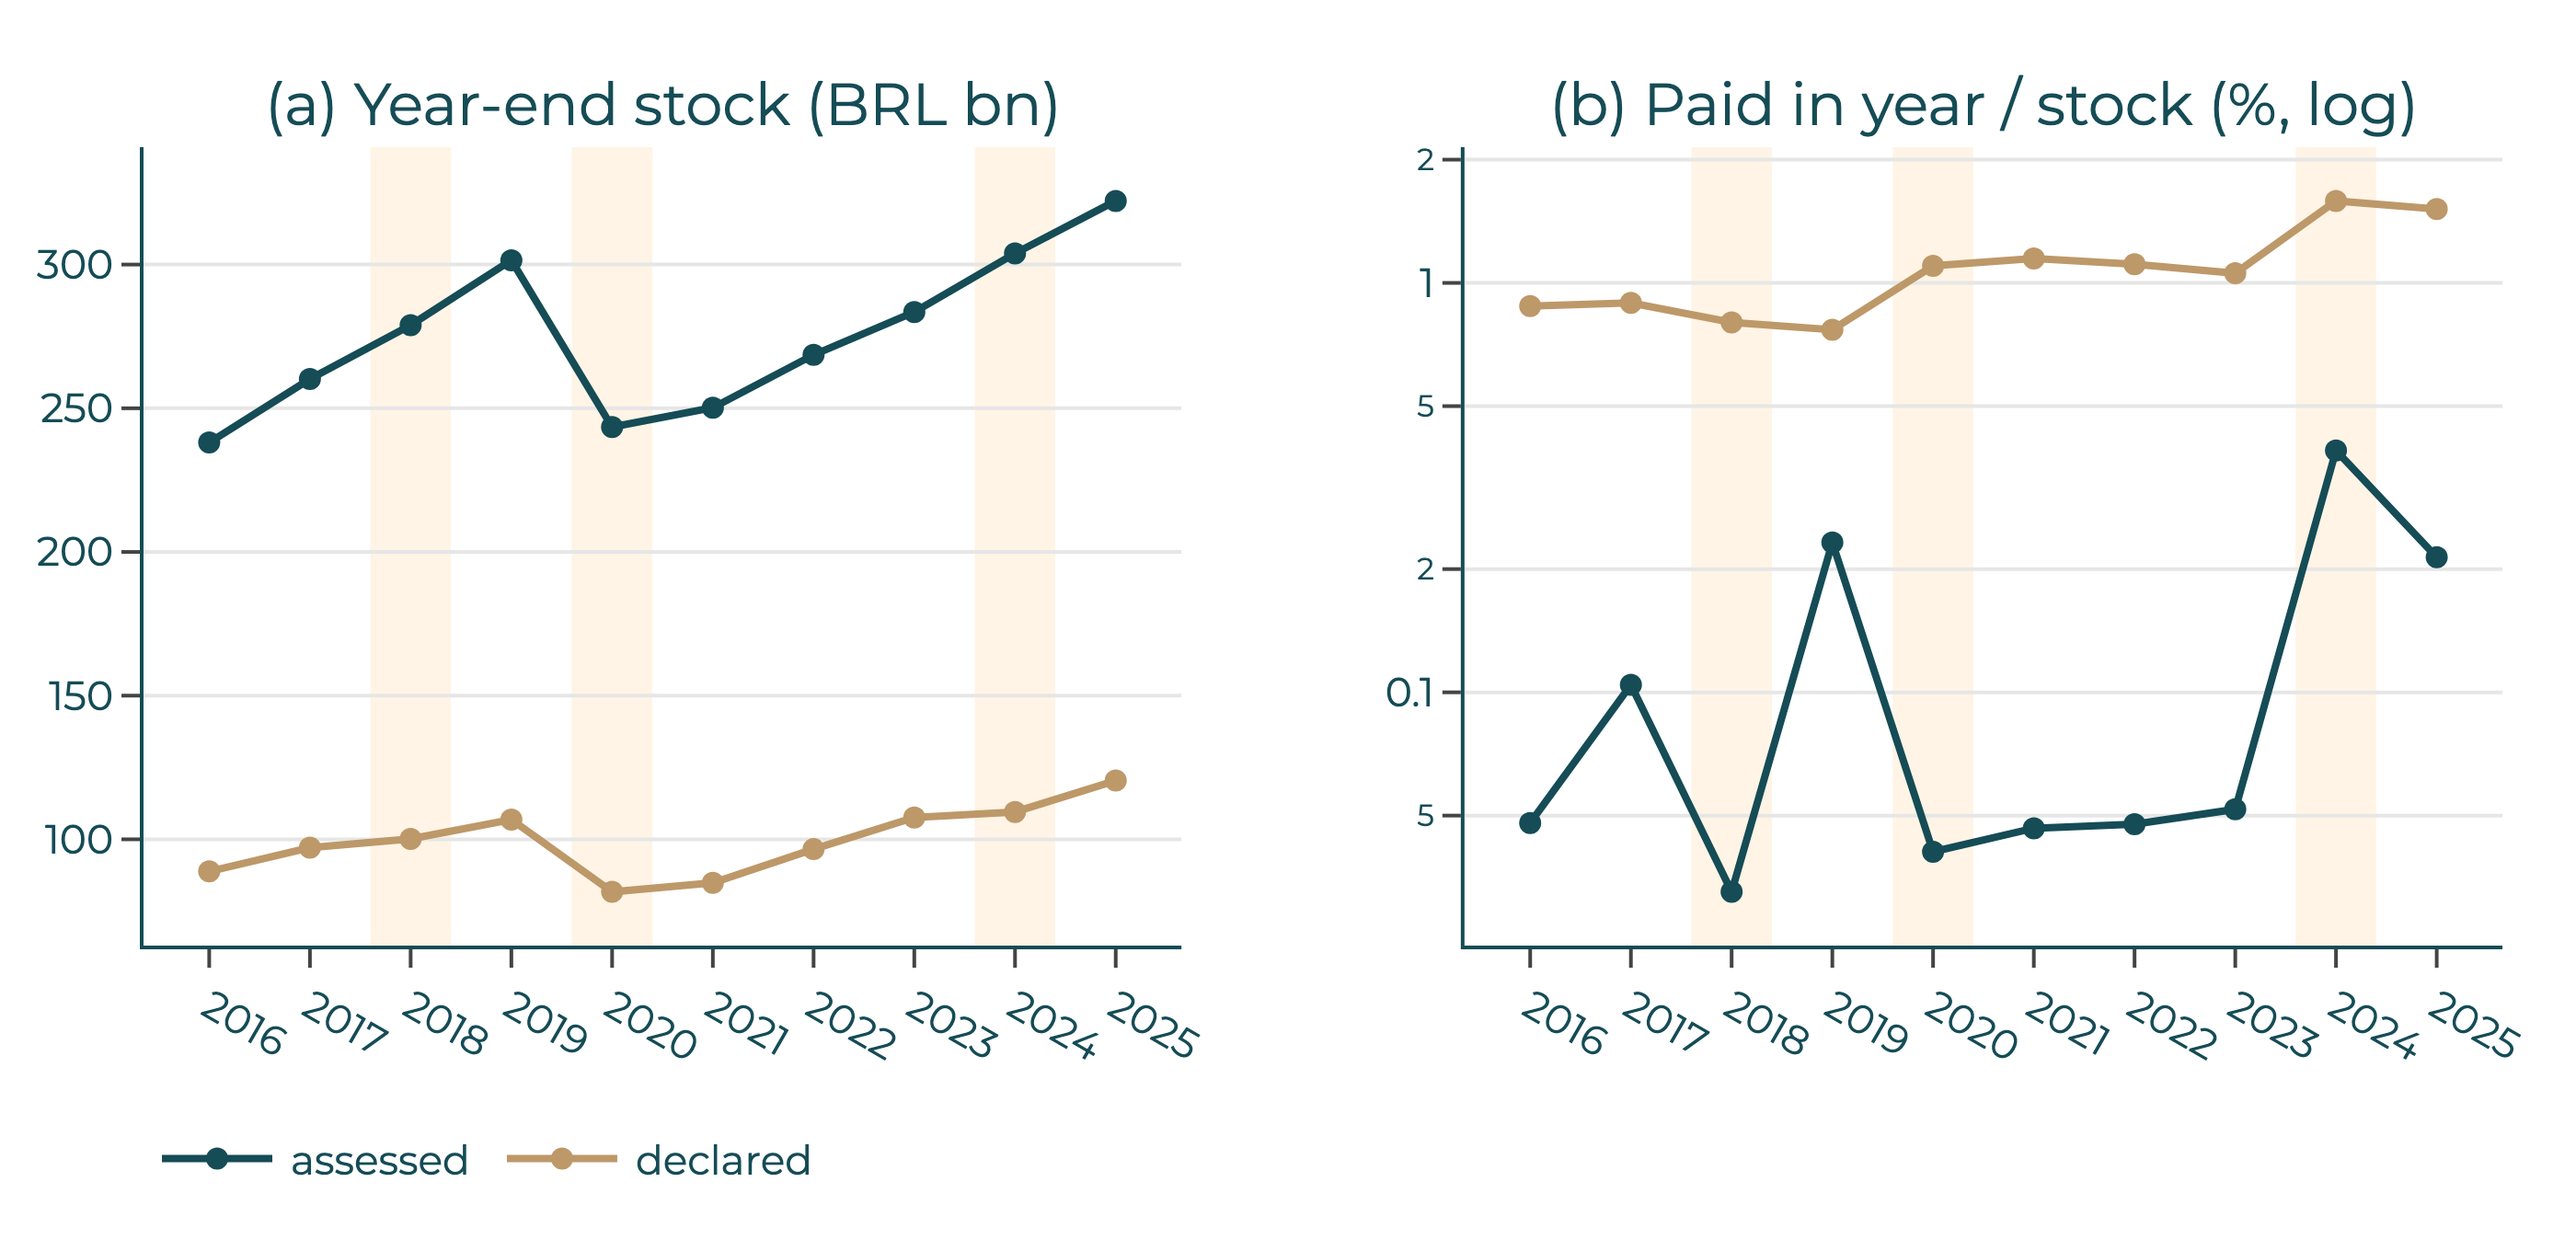
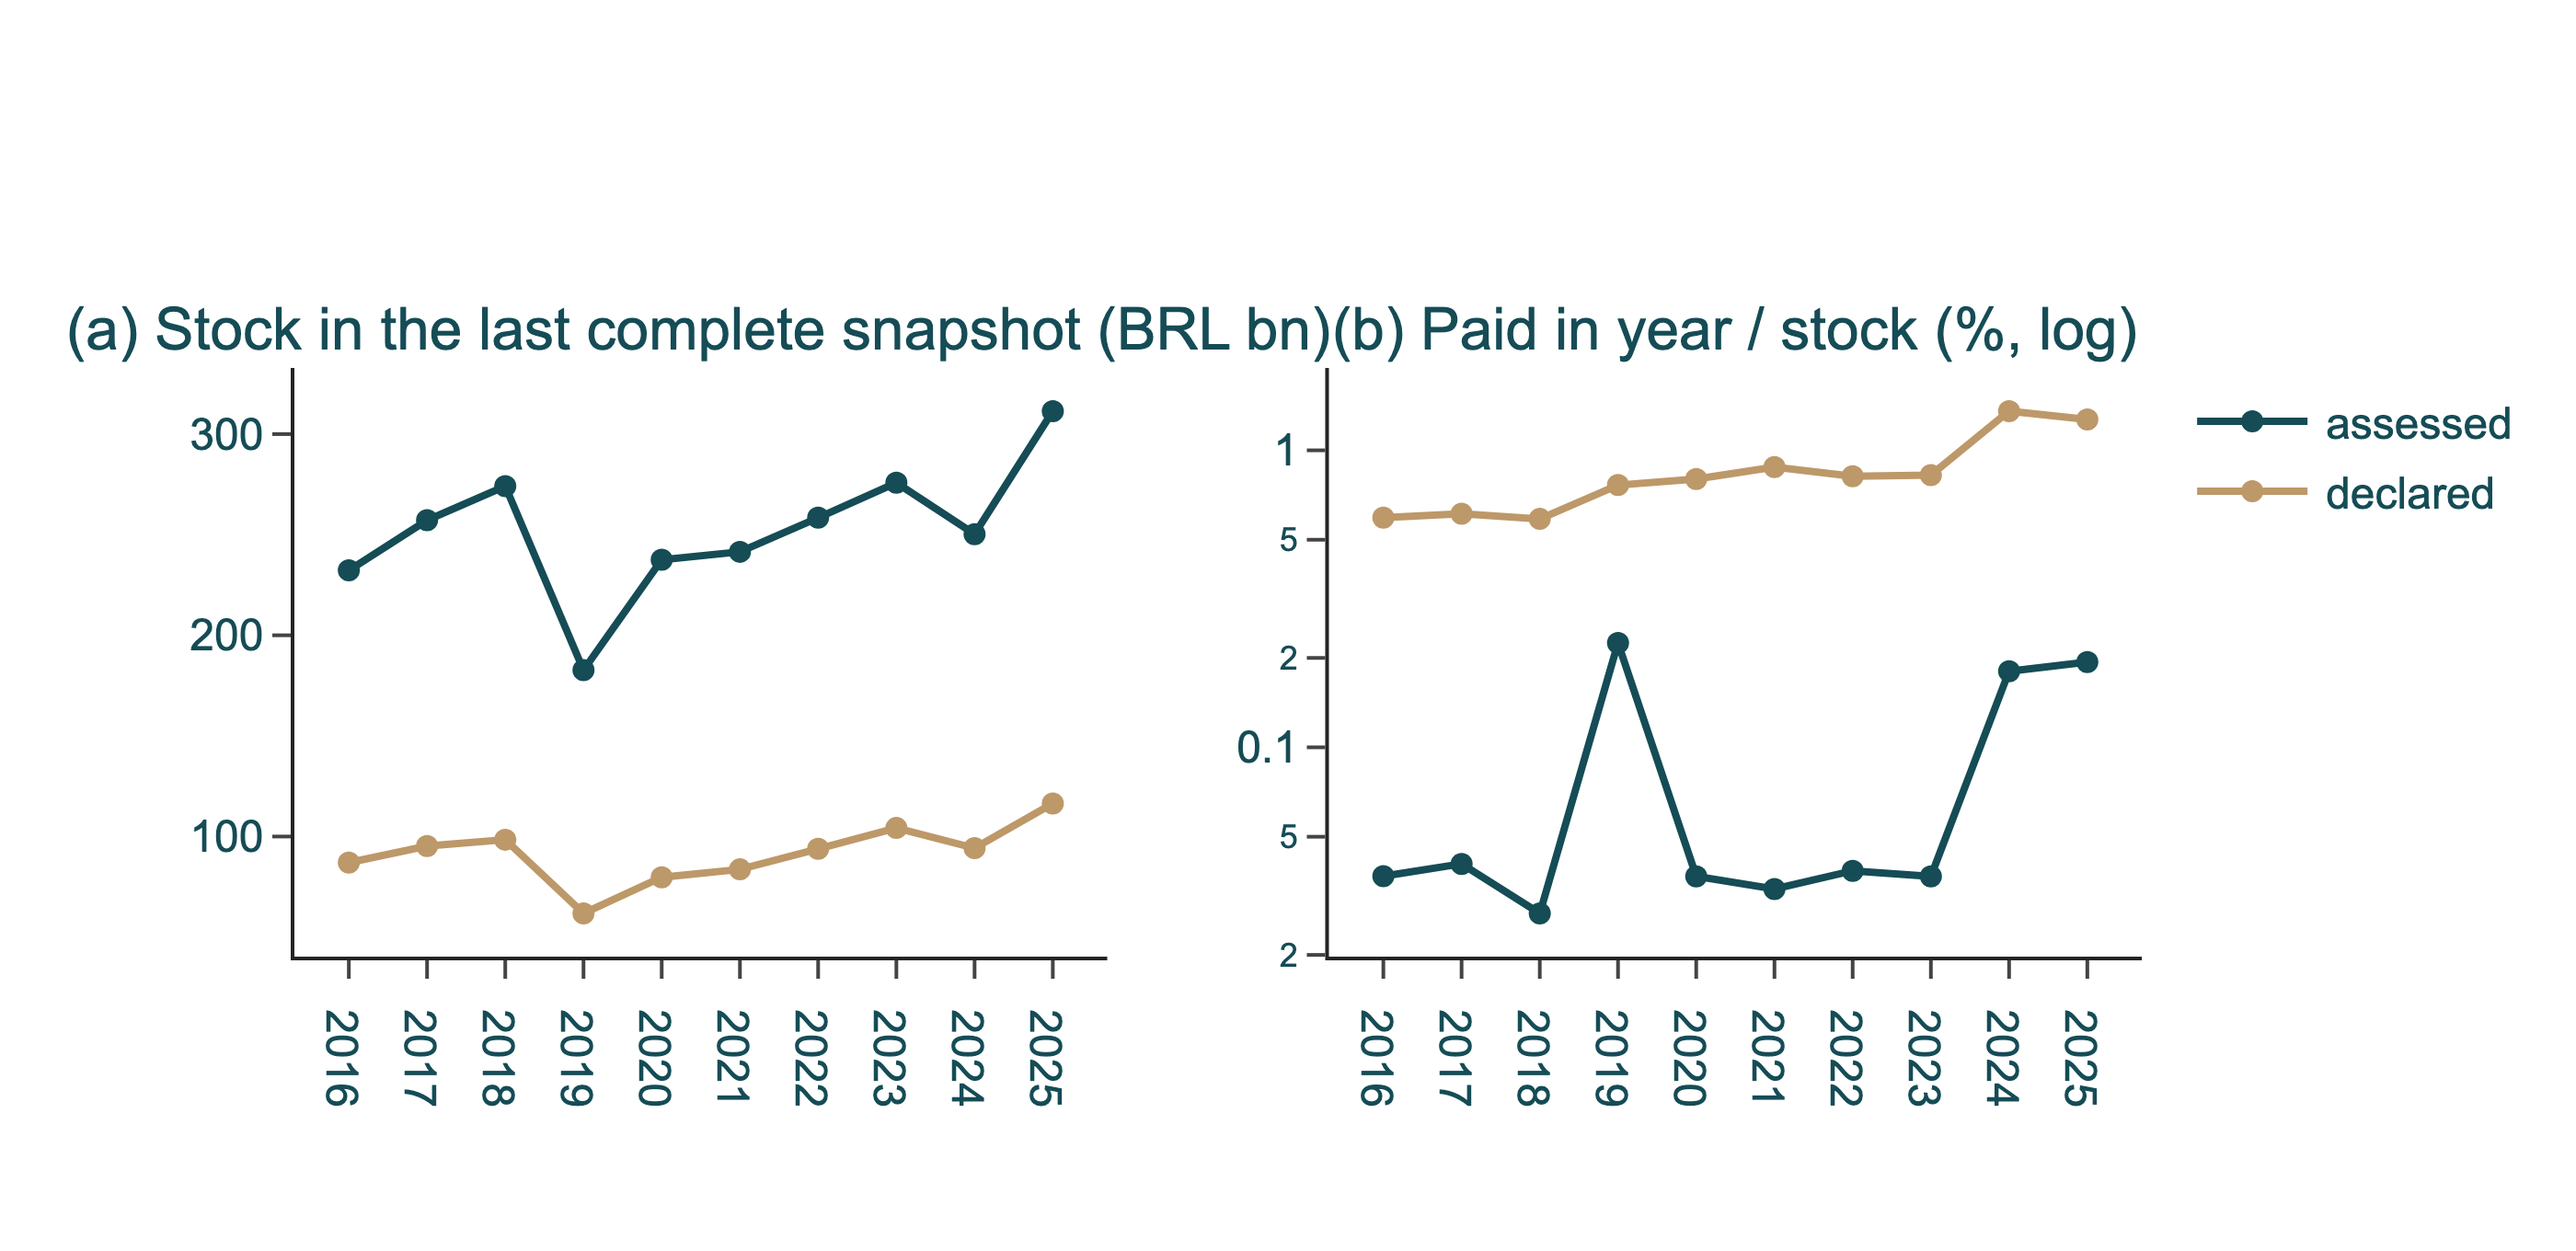
AVD: annual stock vs collection panel, deduplicated, last complete snapshot

diff --git a/projects/macro/manuscript/icms_declarado_autuado/tables/tab_annual_series_origin.tex b/projects/macro/manuscript/icms_declarado_autuado/tables/tab_annual_series_origin.tex
@@ -1,38 +1,38 @@
-% generated by the supplementary notebook; do not edit by hand
-% CDA x year panel, VAT (ICMS) debt of legal entities, 2016-2025, by origin; BRL billion
+% generated by the supplementary material; do not edit by hand
+% One row per debt identifier in the last complete monthly snapshot of the year.
 \begin{tabular}{lrrrrrr}
 \toprule
-year & origin & cdas & stock\_bn & paid\_bn & rate\_pct & pct\_declared\_in\_paid \\
+year & origin & cdas & stock_bn & paid_bn & rate_pct & pct_declared_in_paid \\
 \midrule
-2016 & assessed & 119,985 & 238.1 & 0.114 & 0.048 & 87.2 \\
-2017 & assessed & 121,176 & 260.2 & 0.271 & 0.104 & 76.2 \\
-2018 & assessed & 122,130 & 278.9 & 0.091 & 0.033 & 89.8 \\
-2019 & assessed & 124,498 & 301.5 & 0.701 & 0.232 & 54.0 \\
-2020 & assessed & 67,224 & 243.5 & 0.099 & 0.041 & 90.1 \\
-2021 & assessed & 64,007 & 250.2 & 0.117 & 0.047 & 89.3 \\
-2022 & assessed & 65,632 & 268.6 & 0.128 & 0.048 & 89.3 \\
-2023 & assessed & 65,522 & 283.5 & 0.147 & 0.052 & 88.6 \\
-2024 & assessed & 64,718 & 303.9 & 1.184 & 0.390 & 59.5 \\
-2025 & assessed & 63,973 & 322.2 & 0.689 & 0.214 & 72.6 \\
-2016 & declared & 1,455,676 & 88.8 & 0.780 & 0.878 & 87.2 \\
-2017 & declared & 1,596,331 & 97.1 & 0.868 & 0.894 & 76.2 \\
-2018 & declared & 1,714,469 & 100.1 & 0.802 & 0.801 & 89.8 \\
-2019 & declared & 2,054,926 & 106.9 & 0.821 & 0.769 & 54.0 \\
-2020 & declared & 1,736,451 & 81.7 & 0.899 & 1.101 & 90.1 \\
-2021 & declared & 1,841,700 & 84.8 & 0.973 & 1.147 & 89.3 \\
-2022 & declared & 2,200,941 & 96.6 & 1.073 & 1.111 & 89.3 \\
-2023 & declared & 2,416,921 & 107.6 & 1.136 & 1.056 & 88.6 \\
-2024 & declared & 2,311,426 & 109.5 & 1.737 & 1.586 & 59.5 \\
-2025 & declared & 2,585,489 & 120.4 & 1.824 & 1.514 & 72.6 \\
-2016 & other & 66 & 0.0 & 0.000 & 0.075 & 87.2 \\
-2017 & other & 59 & 0.0 & 0.000 & 0.042 & 76.2 \\
-2018 & other & 60 & 0.0 & 0.000 & 0.035 & 89.8 \\
-2019 & other & 154 & 0.0 & 0.000 & 0.116 & 54.0 \\
-2020 & other & 596 & 0.0 & 0.000 & 0.092 & 90.1 \\
-2021 & other & 1,078 & 0.0 & 0.000 & 0.610 & 89.3 \\
-2022 & other & 1,326 & 0.0 & 0.001 & 2.327 & 89.3 \\
-2023 & other & 1,575 & 0.1 & 0.001 & 1.750 & 88.6 \\
-2024 & other & 1,766 & 0.1 & 0.002 & 3.802 & 59.5 \\
-2025 & other & 8,791 & 0.1 & 0.003 & 4.283 & 72.6 \\
+2016 & assessed & 114,329 & 232.3 & 0.086 & 0.037 & 85.8 \\
+2017 & assessed & 115,987 & 257.2 & 0.104 & 0.041 & 84.8 \\
+2018 & assessed & 117,274 & 274.1 & 0.076 & 0.028 & 88.4 \\
+2019 & assessed & 49,691 & 182.7 & 0.410 & 0.225 & 53.5 \\
+2020 & assessed & 60,356 & 237.6 & 0.087 & 0.037 & 88.0 \\
+2021 & assessed & 60,926 & 241.5 & 0.081 & 0.033 & 90.1 \\
+2022 & assessed & 61,809 & 258.5 & 0.099 & 0.038 & 88.5 \\
+2023 & assessed & 61,918 & 275.8 & 0.101 & 0.037 & 89.5 \\
+2024 & assessed & 53,382 & 250.3 & 0.452 & 0.180 & 73.9 \\
+2025 & assessed & 59,294 & 311.4 & 0.603 & 0.194 & 71.0 \\
+2016 & declared & 1,395,705 & 87.0 & 0.516 & 0.593 & 85.8 \\
+2017 & declared & 1,535,237 & 95.3 & 0.583 & 0.612 & 84.8 \\
+2018 & declared & 1,626,745 & 98.4 & 0.578 & 0.588 & 88.4 \\
+2019 & declared & 1,241,994 & 61.8 & 0.472 & 0.764 & 53.5 \\
+2020 & declared & 1,565,212 & 79.7 & 0.639 & 0.801 & 88.0 \\
+2021 & declared & 1,680,649 & 83.7 & 0.735 & 0.878 & 90.1 \\
+2022 & declared & 1,850,201 & 93.9 & 0.767 & 0.817 & 88.5 \\
+2023 & declared & 2,037,532 & 104.2 & 0.861 & 0.826 & 89.5 \\
+2024 & declared & 1,851,603 & 94.2 & 1.276 & 1.355 & 73.9 \\
+2025 & declared & 2,254,387 & 116.4 & 1.479 & 1.270 & 71.0 \\
+2016 & other & 59 & 0.0 & 0.000 & 0.052 & 85.8 \\
+2017 & other & 59 & 0.0 & 0.000 & 0.042 & 84.8 \\
+2018 & other & 60 & 0.0 & 0.000 & 0.035 & 88.4 \\
+2019 & other & 67 & 0.0 & 0.000 & 0.029 & 53.5 \\
+2020 & other & 577 & 0.0 & 0.000 & 0.061 & 88.0 \\
+2021 & other & 940 & 0.0 & 0.000 & 0.115 & 90.1 \\
+2022 & other & 1,023 & 0.0 & 0.001 & 2.601 & 88.5 \\
+2023 & other & 1,232 & 0.0 & 0.001 & 1.993 & 89.5 \\
+2024 & other & 1,396 & 0.0 & 0.002 & 4.089 & 73.9 \\
+2025 & other & 8,546 & 0.1 & 0.002 & 4.282 & 71.0 \\
 \bottomrule
 \end{tabular}
